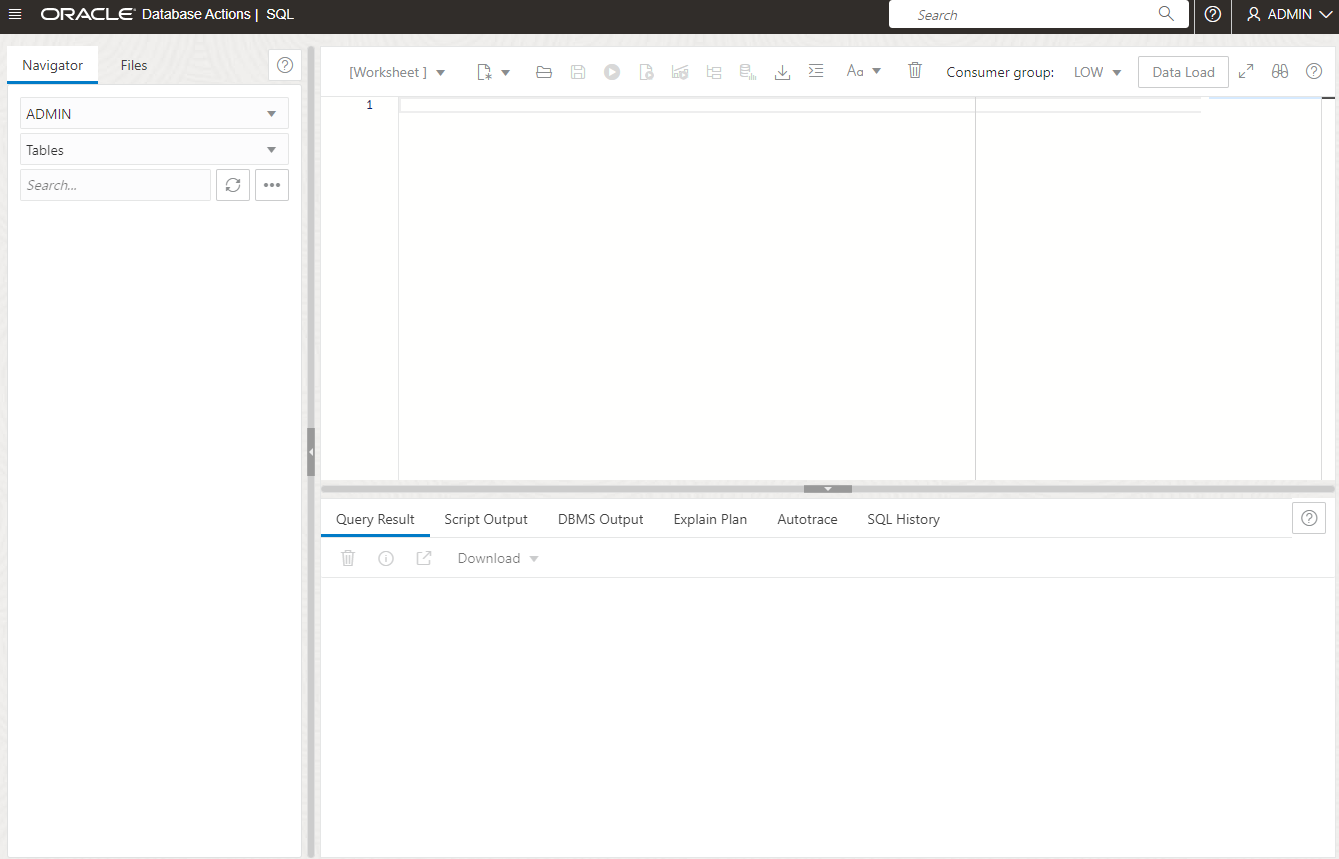
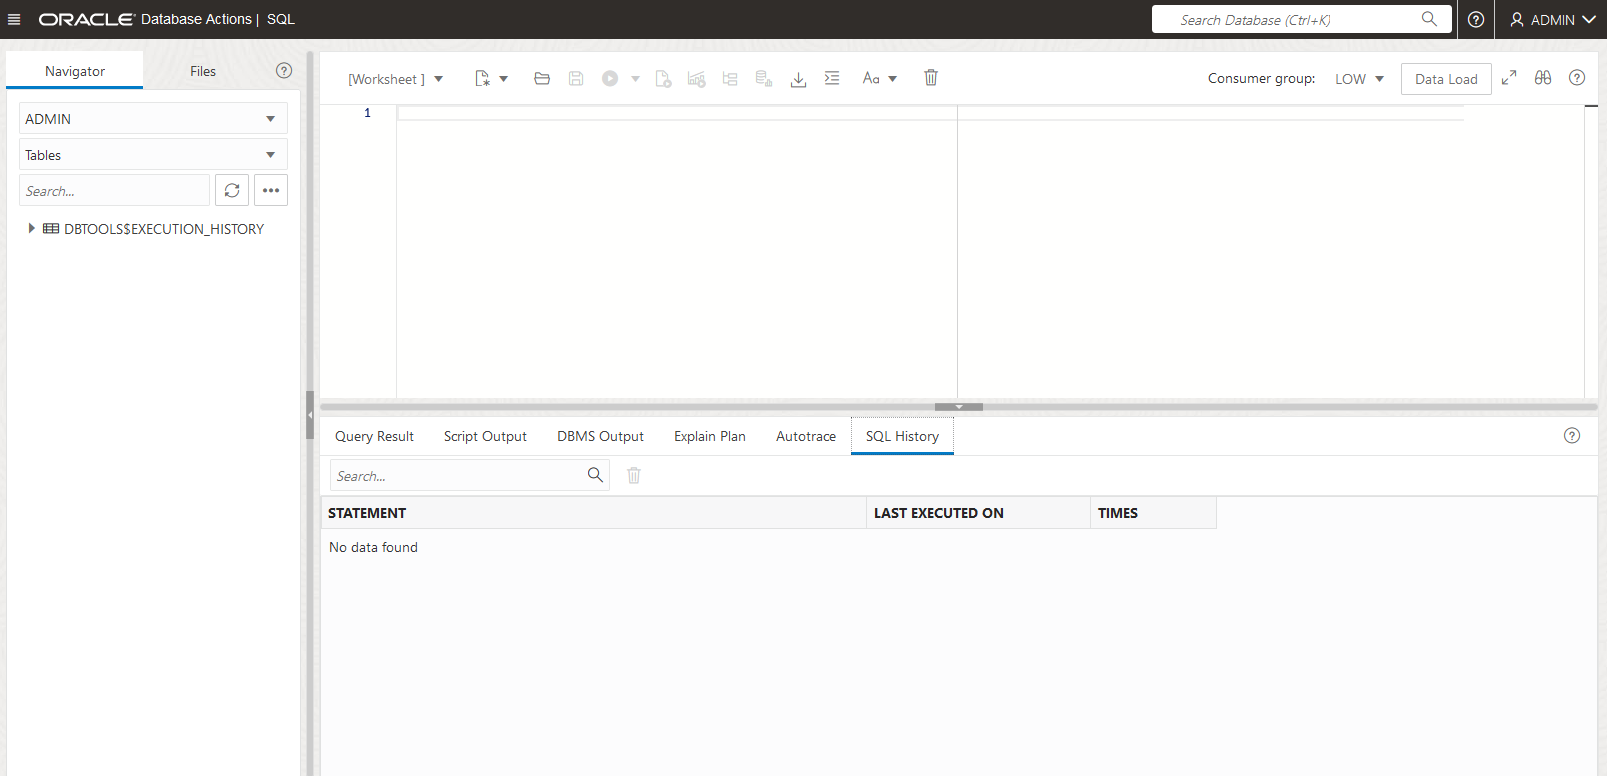
Pull request for Get Started with Oracle Data Safe Fundamentals workshop  (#192)
* Updates from Michaels feedback

* Cloud World updates

* Cloud World 2022

* Updates after Bettina's review

for cloud world 2022

* Data Masking role

Moved Data Masking role grant to Data Masking lab

* Message about filter

* Fixes after dev review

* fixes based on Dev feedback

* Tiger Team training update

Went through all labs and updated most screenshots and updated instructions where needed. Also added a few new features.

* Updates for Tiger Team

* Update prepare-environment.md

Updated this file to work for both workshops

* Files for an advanced workshop for tiger team training

* Update api-copy-audit-data.md

Based on Anna's feedback

* Update api-copy-audit-data.md

Fixed up the copy of code

* Update api-schedule-audit-data-copy.md

* Update api-schedule-audit-data-copy.md

* Update api-schedule-audit-data-copy.md

* With errors

* Update api-copy-audit-data.md

* Update api-copy-audit-data.md

* Update api-copy-audit-data.md

Removed installing the SDK because it's already installed on Cloud Shell. An updated java file is required.

* Update api-copy-audit-data.md

* Updated

* Updates

* Update manifest.json

* Update introduction-adv.md

* Update cli.md

* Update api-copy-audit-data.md

* Update cli.md

* Update cli.md

* Updated based on Bettina's feedback

* Updated screenshots for new OCI interface

* update

* updates for 2nd workshop

* Q/A testing updates

* lint checker Q/A updates

* updates for integration workshop

* Testing
[…]

diff --git a/data-safe/prepare-environment/prepare-environment.md b/data-safe/prepare-environment/prepare-environment.md
@@ -131,10 +131,10 @@ Create an IAM policy that grants you the necessary permissions for the workshop.
     Allow group {group name} to manage instance-family in compartment {compartment name}
     Allow group {group name} to read app-catalog-listing in tenancy
     Allow group {group name} to manage virtual-network-family in compartment {compartment name}
-    Allow group {user-group} to manage ons-topic in tenancy
-    Allow group {user-group} to manage cloudevents-rules in tenancy
-    Allow group {user-group} to manage alarms in tenancy
-    Allow group {user-group} to read metrics in tenancy
+    Allow group {user-group} to manage ons-topic in compartment {compartment name}
+    Allow group {user-group} to manage cloudevents-rules in compartment {compartment name}
+    Allow group {user-group} to manage alarms in compartment {compartment name}
+    Allow group {user-group} to read metrics in compartment {compartment name}
 
     </copy>
     ```
@@ -208,7 +208,7 @@ Create an Autonomous Transaction Processing (ATP) database in your compartment. 
 
     You are now signed in to your LiveLabs Sandbox in Oracle Cloud Infrastructure.
 
-7. Access your target database: From the navigation menu (hamburger menu in the upper-left corner), select **Oracle Database**, and then **Autonomous Transaction Processing**. Under **List scope**, select your compartment under the **LiveLabs** folder. In the table on the right, click the name of your target database.
+7. Access your target database: From the navigation menu (hamburger menu in the upper-left corner), select **Oracle Database**, and then **Autonomous Transaction Processing**. Under **List scope**, select your compartment under the **LiveLabs** folder. In the table on the right, click the name of your database.
 
 
 ## Task 6: Access Oracle Database Actions
@@ -222,7 +222,7 @@ Database Actions provides a way for you to run SQL commands on your target datab
     - If a tenancy administrator provided you an Autonomous Database, obtain the password from that person.
     - If you are using an Oracle-provided environment, enter the database password provided to you.
 
-3. Close the warning and help dialog boxes.
+3. Close the **SQL History** and **Warning** dialog boxes.
 
 4. Review the interface. Here are the ways that you use Database Actions during the workshop:
 
@@ -287,4 +287,4 @@ You may now **proceed to the next lab**.
 ## Acknowledgements
 
 - **Author** - Jody Glover, Consulting User Assistance Developer, Database Development
-- **Last Updated By/Date** - Jody Glover, February 13, 2024
+- **Last Updated By/Date** - Jody Glover, April 25, 2024

diff --git a/data-safe/assess-database-configurations/assess-database-configurations.md b/data-safe/assess-database-configurations/assess-database-configurations.md
@@ -225,4 +225,4 @@ In this task, you issue a `GRANT` command on your target database so that later,
 ## Acknowledgements
 
 * **Author** - Jody Glover, Consulting User Assistance Developer, Database Development
-* **Last Updated By/Date** - Jody Glover, February 12, 2024
+* **Last Updated By/Date** - Jody Glover, April 25, 2024

diff --git a/data-safe/mask-sensitive-data/mask-sensitive-data.md b/data-safe/mask-sensitive-data/mask-sensitive-data.md
@@ -276,4 +276,4 @@ You can run a data masking job against your target database from the **Masking p
 
 ## Acknowledgements
 - **Author** - Jody Glover, Consulting User Assistance Developer, Database Development
-- **Last Updated By/Date** - Jody Glover, February 12, 2024
+- **Last Updated By/Date** - Jody Glover, April 25, 2024

diff --git a/data-safe/generate-alerts/generate-alerts.md b/data-safe/generate-alerts/generate-alerts.md
@@ -282,4 +282,4 @@ You may now **proceed to the next lab**.
 ## Acknowledgements
 
 * **Author** - Jody Glover, Consulting User Assistance Developer, Database Development
-* **Last Updated By/Date** - Jody Glover, February 12, 2024
+* **Last Updated By/Date** - Jody Glover, April 25, 2024
